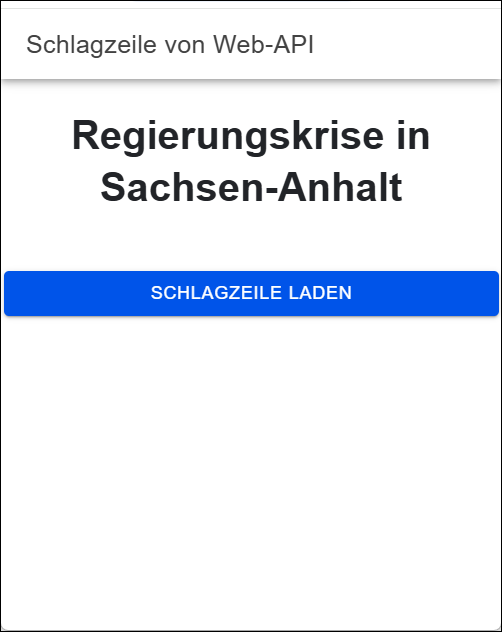
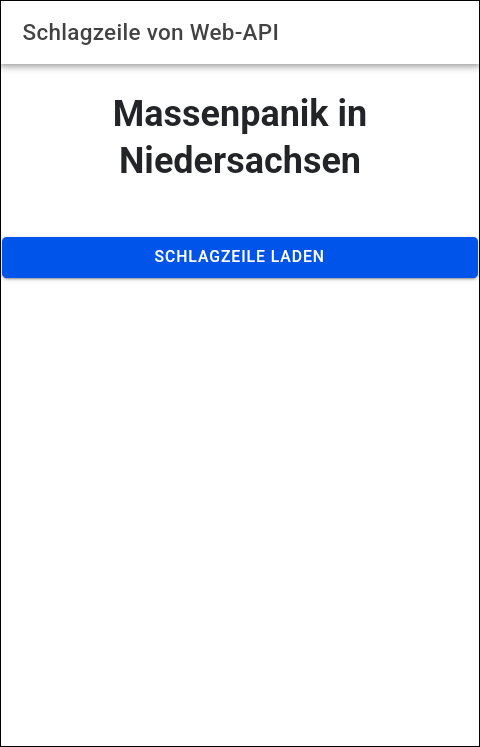
Screenshot fuer README ausgetauscht

diff --git a/README.md b/README.md
@@ -7,6 +7,12 @@ Es wird jeweils eine zufällig erzeugte Schlagzeile von einer REST-API abgerufen
 
 <br>
 
+----
+
+## Screenshot ##
+
+<br>
+
 ![Screenshot](screenshot_1.png)
 
 <br>